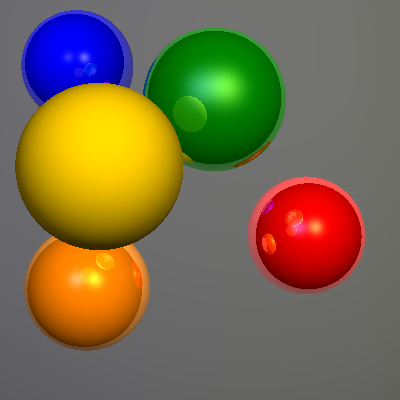
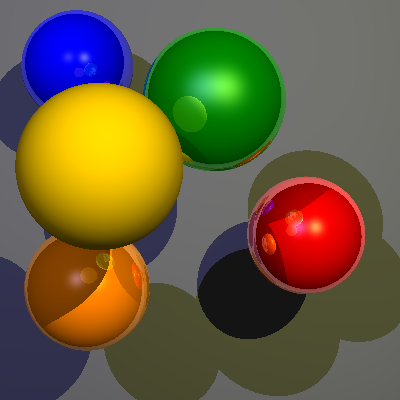
patch shadows

diff --git a/raytracerframework_cpp/scene.cpp b/raytracerframework_cpp/scene.cpp
@@ -89,7 +89,8 @@ Color Scene::trace(const Ray &ray, float minRange, float maxRange, int currentRe
 			R.normalize();
 
 			//computation of intersection with othe objects(reflexion) and in between lights(shadows)
-			if (!shadows || getNearestIntersectedObj(Ray(hit, -L)).second == nearest.second) {
+			auto obstacle = getNearestIntersectedObj(Ray(hit, L));
+			if (!shadows || !obstacle.second) {
 				double cosineDiff = L.dot(N);
 				double cosineSpec = R.dot(V);
 				if (cosineDiff >= 0.0) Id += light->color * material->kd * cosineDiff;
